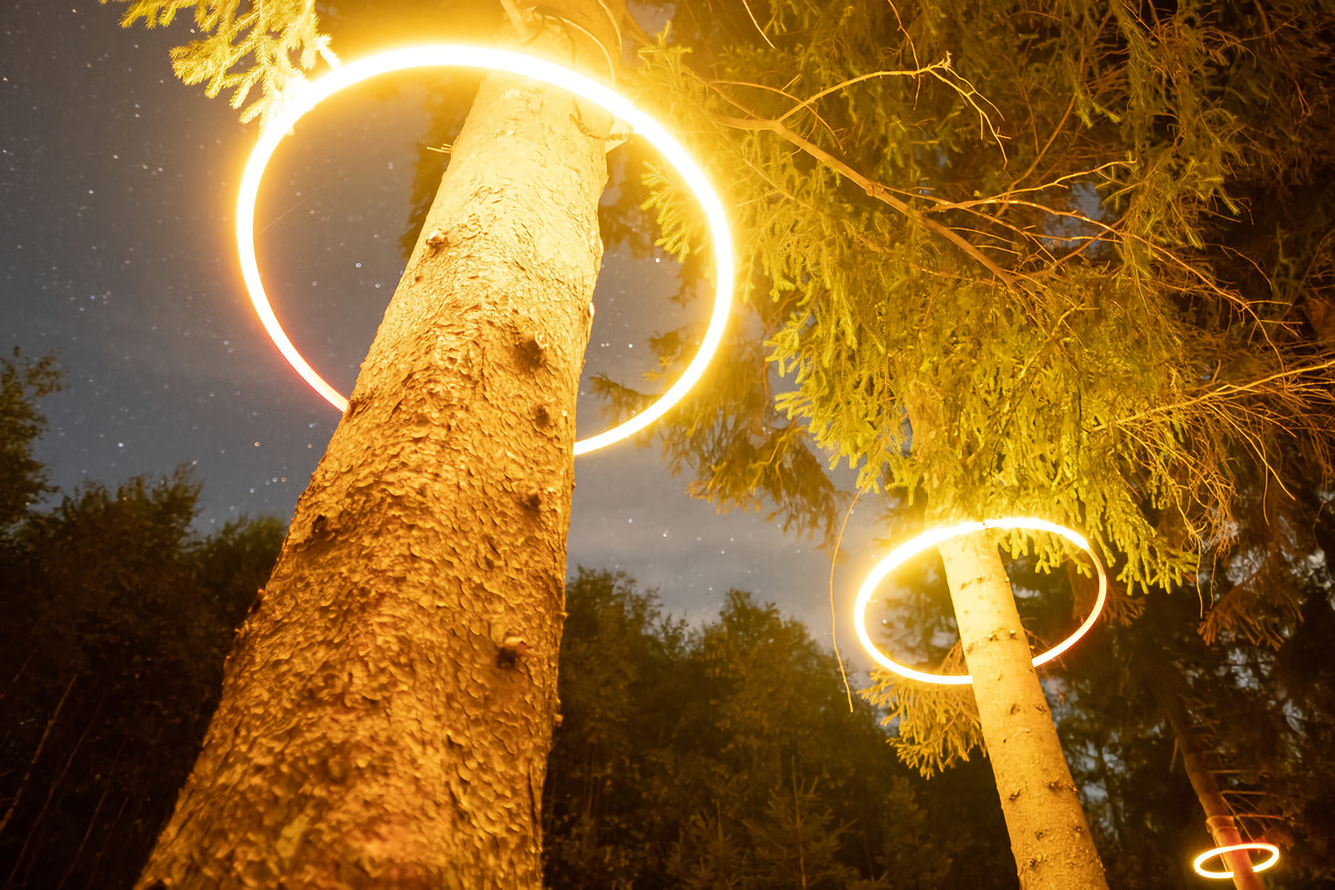
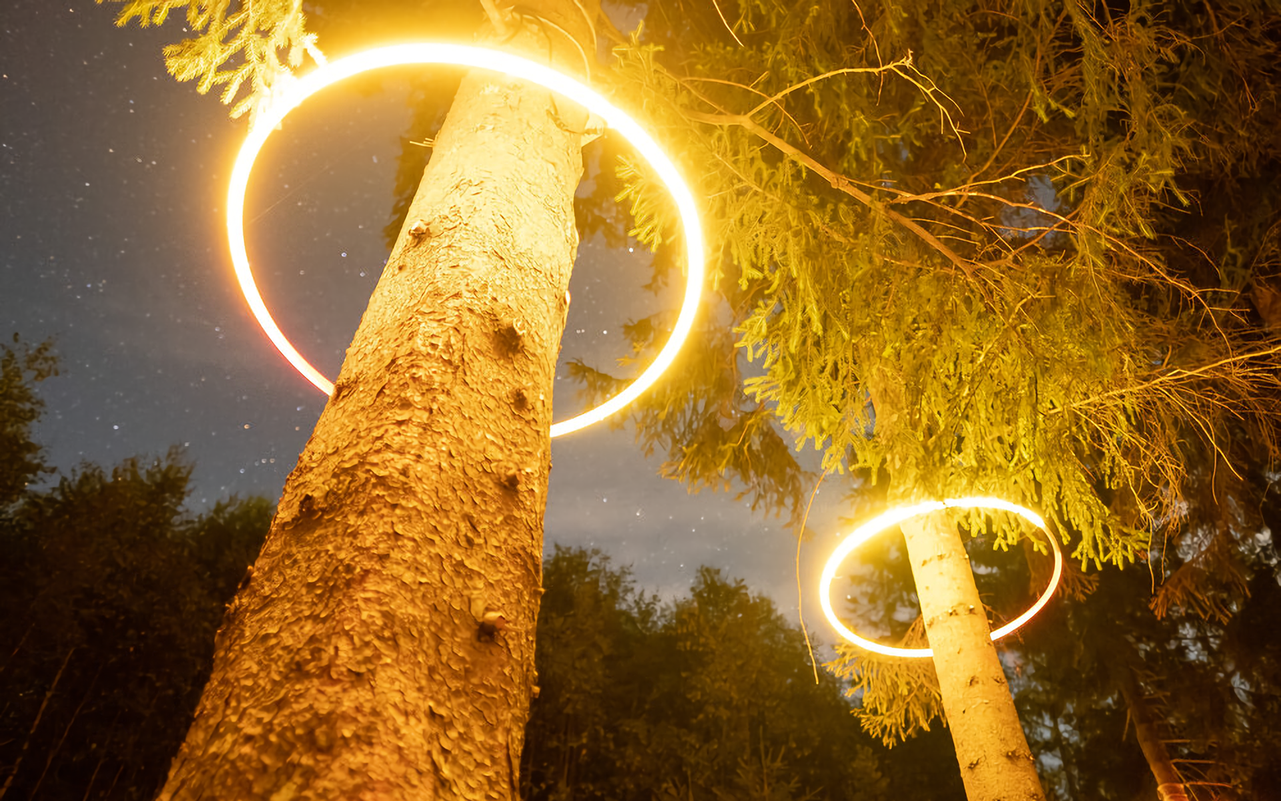
new images

diff --git a/index.html b/index.html
@@ -54,13 +54,19 @@
       </div>
       <div class="slide">
         <img
-          src="assets/img/svartljus-dendrolux-tjoloholm-01-photo-rose-hallgren.jpg"
+          src="assets/img/svartljus-dendrolux-tjoloholm-01-photo-rose-hallgren.webp"
           alt=""
         />
       </div>
       <div class="slide">
         <img
-          src="assets/img/svartljus-dendrolux-tjoloholm-02-photo-rose-hallgren.jpg"
+          src="assets/img/svartljus-dendrolux-tjoloholm-02-photo-rose-hallgren.webp"
+          alt=""
+        />
+      </div>
+      <div class="slide">
+        <img
+          src="assets/img/svartljus-semiosphere-urban-burn-2018.webp"
           alt=""
         />
       </div>
